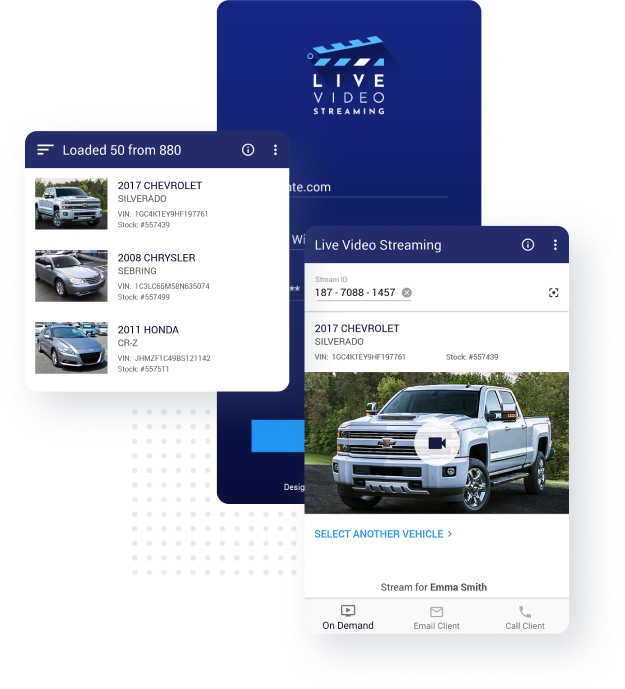
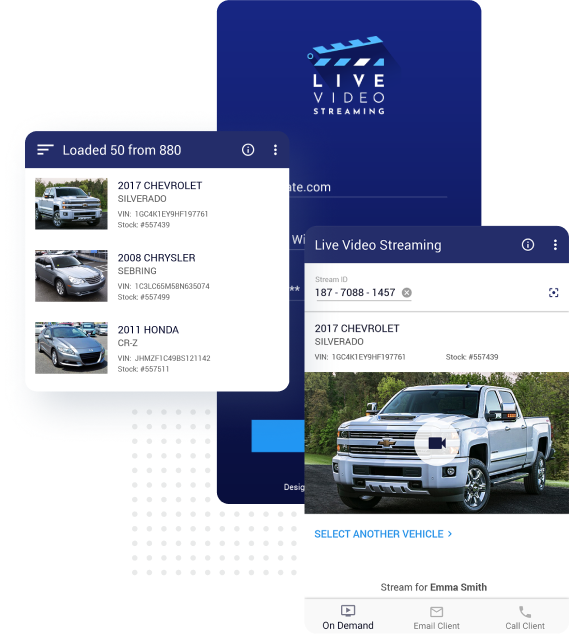
up

diff --git a/index.html b/index.html
@@ -75,7 +75,7 @@
         <div class="row">
           <div class="case-block">
             <div class="case-block-text">
-              <p class="case-name xloo-text-primary">SimCasts</p>
+              <p class="case-name xloo-text-primary tm-ico">SimCasts</p>
               <h3 class="xloo-title-dark-text xloo-secondary-text-light mb-0">Online Bidding Platform With Live Streaming</h3>
               <p class="xloo-secondary-text-light xloo-secondary-text case-text">Video/audio broadcasting software for auto auctions with a wide range of possibilities for selling vehicles online.</p>
               <div class="container-case-platforms">
@@ -106,7 +106,7 @@
               <img class="img-case img-case-lg" src="images/vir_case_1600.png" alt="">
             </div>
             <div class="case-block-text">
-              <p class="case-name">VIR</p>
+              <p class="case-name tm-ico">VIR</p>
               <h3 class="xloo-title-dark-text mb-0">Vehicle Condition Report App <br>with Grading</h3>
               <p class="xloo-secondary-text-dark case-text">A complete solution for online vehicle inspections with the automatic grading of each vehicle area’s condition, each part, as well as the overall grading.</p>
               <div class="container-case-platforms">

diff --git a/css/work_page.css b/css/work_page.css
@@ -81,7 +81,17 @@
   font-weight: 600;
   margin-bottom: 10px;
 }
-
+.tm-ico {
+  position: relative;
+  display: inline;
+}
+.tm-ico:before {
+  content: 'TM';
+  position: absolute;
+  right: -20px;
+  top: 3px;
+  font-size: 12px;
+}
 /*media*/
 @media (max-width: 1600px) {
   .case-block-img .img-case-xl {
